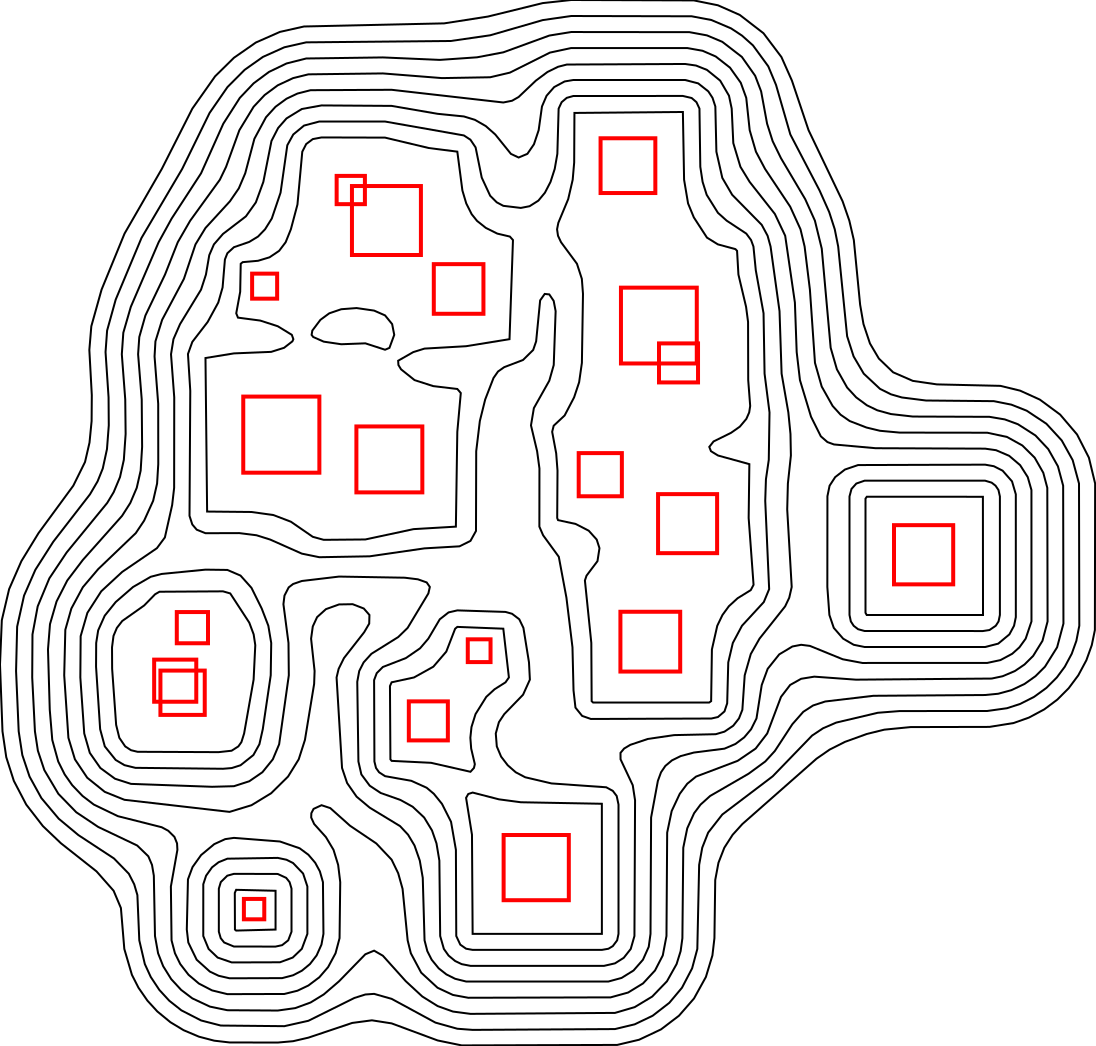
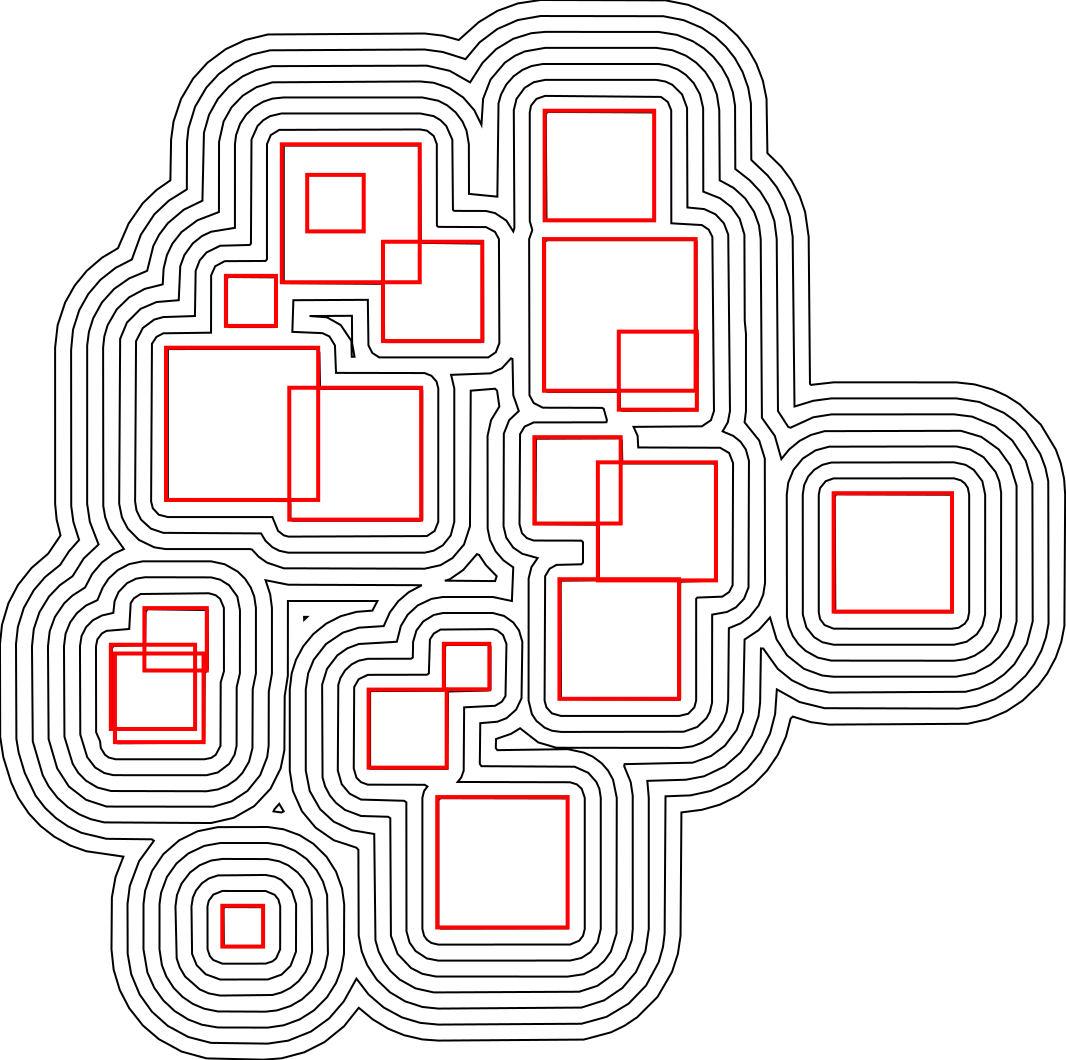
docs(geom-sdf): update readme/assets

Changed region(s): [[0.0, 0.0, 1.0, 1.0]]

diff --git a/packages/geom-sdf/README.md b/packages/geom-sdf/README.md
@@ -50,7 +50,7 @@ node --experimental-repl-await
 > const geomSdf = await import("@thi.ng/geom-sdf");
 ```
 
-Package sizes (gzipped, pre-treeshake): ESM: 2.61 KB
+Package sizes (gzipped, pre-treeshake): ESM: 2.63 KB
 
 ## Dependencies
 
@@ -130,9 +130,11 @@ writeFileSync(
 
 Results:
 
-| using `circle()`                                                                                                       | using `rect()`                                                                                                                 |
-|------------------------------------------------------------------------------------------------------------------------|--------------------------------------------------------------------------------------------------------------------------------|
-| ![metaballs based on circles](https://raw.githubusercontent.com/thi-ng/umbrella/develop/assets/geom-sdf/metaballs.png) | ![metaballs based on rectangles](https://raw.githubusercontent.com/thi-ng/umbrella/develop/assets/geom-sdf/metaballs-rect.png) |
+| `circle()`                                                                                                                   | `rect()`                                                                                                                          |
+|------------------------------------------------------------------------------------------------------------------------------|-----------------------------------------------------------------------------------------------------------------------------------|
+| ![metaballs based on circles](https://raw.githubusercontent.com/thi-ng/umbrella/develop/assets/geom-sdf/metaballs.png)       | ![metaballs based on rectangles](https://raw.githubusercontent.com/thi-ng/umbrella/develop/assets/geom-sdf/metaballs-rect.png)    |
+| `circle()` (smooth)                                                                                                          | `rect()` (smooth)                                                                                                                 |
+| ![metaballs w/ smooth union](https://raw.githubusercontent.com/thi-ng/umbrella/develop/assets/geom-sdf/metaballs-smooth.png) | ![metaballs w/ smooth union](https://raw.githubusercontent.com/thi-ng/umbrella/develop/assets/geom-sdf/metaballs-rect-smooth.png) |
 
 ## Authors
 

diff --git a/packages/geom-sdf/tpl.readme.md b/packages/geom-sdf/tpl.readme.md
@@ -98,9 +98,11 @@ writeFileSync(
 
 Results:
 
-| using `circle()`                                                                                                       | using `rect()`                                                                                                                 |
-|------------------------------------------------------------------------------------------------------------------------|--------------------------------------------------------------------------------------------------------------------------------|
-| ![metaballs based on circles](https://raw.githubusercontent.com/thi-ng/umbrella/develop/assets/geom-sdf/metaballs.png) | ![metaballs based on rectangles](https://raw.githubusercontent.com/thi-ng/umbrella/develop/assets/geom-sdf/metaballs-rect.png) |
+| `circle()`                                                                                                                   | `rect()`                                                                                                                          |
+|------------------------------------------------------------------------------------------------------------------------------|-----------------------------------------------------------------------------------------------------------------------------------|
+| ![metaballs based on circles](https://raw.githubusercontent.com/thi-ng/umbrella/develop/assets/geom-sdf/metaballs.png)       | ![metaballs based on rectangles](https://raw.githubusercontent.com/thi-ng/umbrella/develop/assets/geom-sdf/metaballs-rect.png)    |
+| `circle()` (smooth)                                                                                                          | `rect()` (smooth)                                                                                                                 |
+| ![metaballs w/ smooth union](https://raw.githubusercontent.com/thi-ng/umbrella/develop/assets/geom-sdf/metaballs-smooth.png) | ![metaballs w/ smooth union](https://raw.githubusercontent.com/thi-ng/umbrella/develop/assets/geom-sdf/metaballs-rect-smooth.png) |
 
 ## Authors
 
